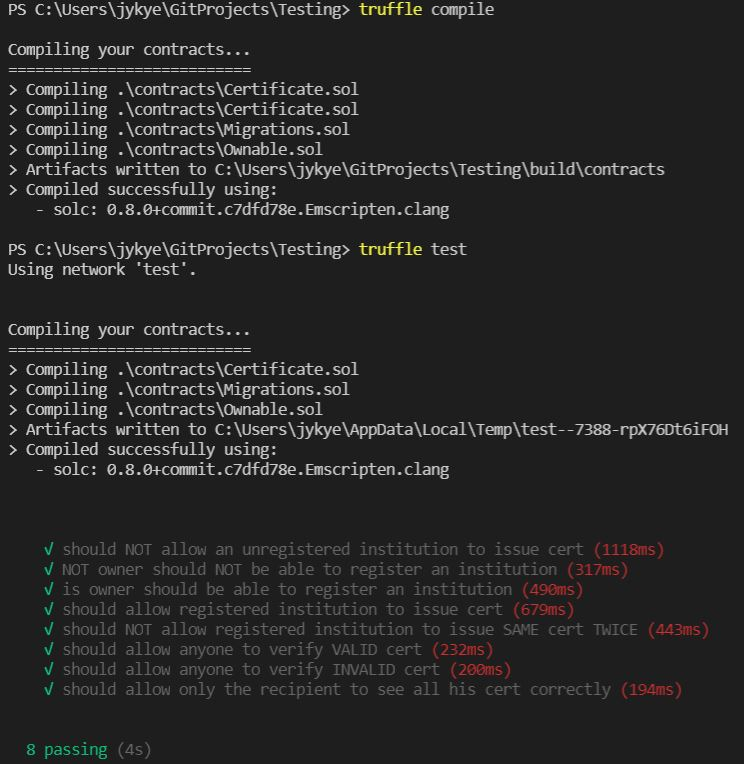
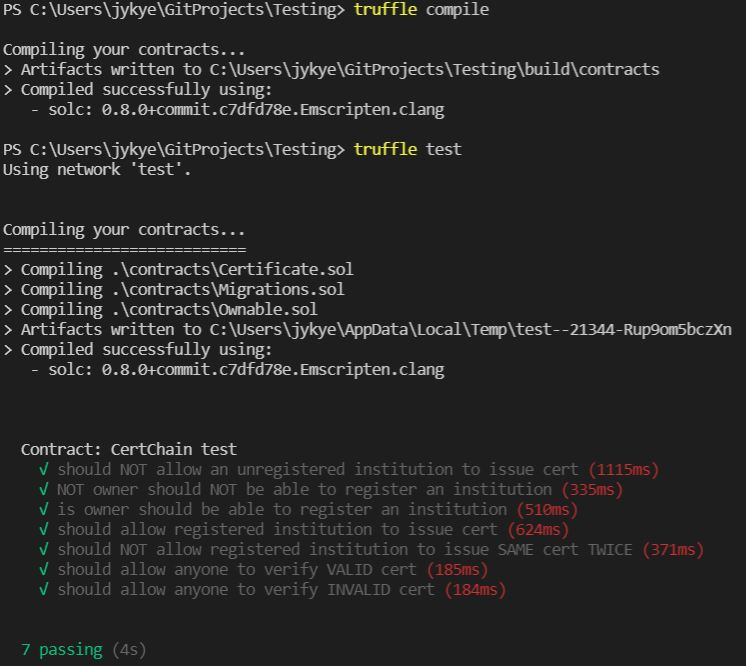
modified tests from 8 to 7 tests

diff --git a/test/Certificate.js b/test/Certificate.js
@@ -117,17 +117,4 @@ contract("CertChain test",async accounts => {
             assert.fail("Unexpected error received: "+error)
         }
     })
-
-    
-    it("should allow only the recipient to see all his cert correctly",async ()=>{
-        const instance=await Cert.deployed();
-        try{
-            const allCerts=await instance.getAllMyCertificates({from:john_addr})
-            assert.equal(allCerts.length,1)
-            assert.deepEqual([allCerts[0].name,allCerts[0].course,allCerts[0].degree,allCerts[0].institutionName,allCerts[0].graduatingYear,allCerts[0].enrolledYear,allCerts[0].recipient,allCerts[0].issuer],
-                [john_name,"ISTD","Degree", sutd_name,"2021","2018",john_addr,sutd_addr])
-        }catch(error){
-            assert.fail("Unexpected error received: "+error)
-        }
-    })
 })

diff --git a/README.md b/README.md
@@ -18,8 +18,6 @@ Install Truffle: `npm install -g truffle`
 &nbsp; &nbsp; Any address will be able to verify a certificate. If valid, returns True.  
 **√ should allow anyone to verify INVALID cert**          
 &nbsp; &nbsp; Any address will be able to verify a certificate. If invalid, returns False.  
-**√ should allow only the recipient to see all his cert correctly**          
-&nbsp; &nbsp; Gets all the certificate issued to the address that called the function.
 
 ## To Run
 In this directory, run `truffle compile`.  
